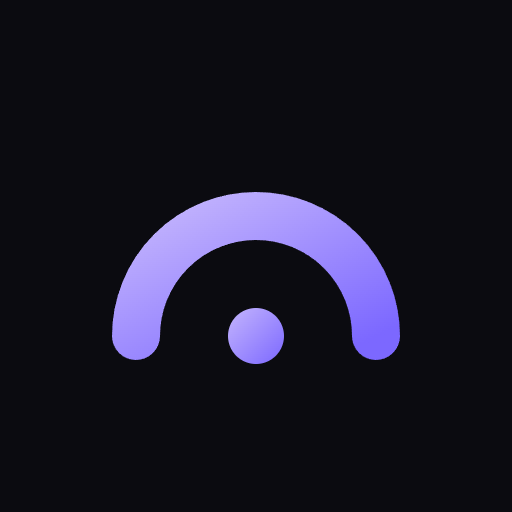
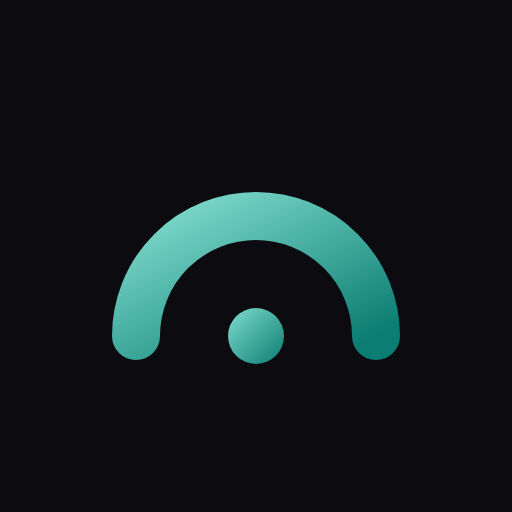
Change Arc's brand colour to deep teal
Dark accent #2bb3a3 / #0b7d72, light #0b7d72 / #086158; the logo arc
gradient #7fdccd -> #0b7d72 in icon.svg, the sidebar and re-rendered
PNG icons; the API docs use Scalar's neutral theme with the teal accent;
README badges and the year-in-review card follow. Count badges and the
accent button hover move to accent-strong so white text keeps contrast.

Changed region(s): [[0.2188, 0.375, 0.7812, 0.7188], [0.4375, 0.5938, 0.5625, 0.7188]]

diff --git a/web/src/index.css b/web/src/index.css
@@ -15,8 +15,8 @@
   --muted: #a1a1ad;
   --subtle: #6b6b78;
   --border: rgb(255 255 255 / 0.08);
-  --accent: #9d8cff;
-  --accent-strong: #7c68ff;
+  --accent: #2bb3a3;
+  --accent-strong: #0b7d72;
   --accent-foreground: #ffffff;
   --warning: #ffb547;
   --glass: rgb(21 21 28 / 0.72);
@@ -33,8 +33,8 @@
     --muted: #5f5f6b;
     --subtle: #8e8e99;
     --border: rgb(0 0 0 / 0.08);
-    --accent: #6d5ce8;
-    --accent-strong: #5a48d9;
+    --accent: #0b7d72;
+    --accent-strong: #086158;
     --accent-foreground: #ffffff;
     --warning: #c77700;
     --glass: rgb(255 255 255 / 0.72);
@@ -52,8 +52,8 @@
   --muted: #5f5f6b;
   --subtle: #8e8e99;
   --border: rgb(0 0 0 / 0.08);
-  --accent: #6d5ce8;
-  --accent-strong: #5a48d9;
+  --accent: #0b7d72;
+  --accent-strong: #086158;
   --accent-foreground: #ffffff;
   --warning: #c77700;
   --glass: rgb(255 255 255 / 0.72);

diff --git a/web/src/docs/main.ts b/web/src/docs/main.ts
@@ -8,7 +8,10 @@ createApiReference('#docs', {
   url: '/api/openapi.json',
   // "Try it" requests go to this server, signed in as the current browser session.
   servers: [{ url: `${location.origin}/api/v1`, description: 'This Arc server' }],
-  theme: 'purple',
+  // Arc's colours: Scalar's neutral theme with Arc's teal accent (web/src/index.css).
+  theme: 'default',
+  customCss: `.light-mode { --scalar-color-accent: #0b7d72; --scalar-background-accent: #0b7d721f; }
+.dark-mode { --scalar-color-accent: #2bb3a3; --scalar-background-accent: #2bb3a31f; }`,
   telemetry: false,
   withDefaultFonts: false,
   agent: { disabled: true },

diff --git a/web/src/pages/Year.tsx b/web/src/pages/Year.tsx
@@ -90,7 +90,7 @@ function Review({ y, faded }: { y: YearReview; faded: boolean }) {
         initial={{ opacity: 0, y: 12 }}
         animate={{ opacity: 1, y: 0 }}
         transition={{ duration: 0.6, ease: [0.22, 1, 0.36, 1] }}
-        className="relative overflow-hidden rounded-3xl bg-gradient-to-br from-accent-strong via-accent-strong/85 to-indigo-950 p-8 text-white ring-1 ring-white/10 md:p-12"
+        className="relative overflow-hidden rounded-3xl bg-gradient-to-br from-accent-strong via-accent-strong/85 to-teal-950 p-8 text-white ring-1 ring-white/10 md:p-12"
       >
         {hours < 1 ? (
           topGenre

diff --git a/web/src/components/ui/button.tsx b/web/src/components/ui/button.tsx
@@ -9,7 +9,7 @@ export const buttonVariants = cva(
       variant: {
         // Bright, high-contrast call to action (Play).
         primary: 'bg-foreground text-background hover:bg-foreground/90 shadow-lg shadow-black/20',
-        accent: 'bg-accent-strong text-accent-foreground hover:bg-accent',
+        accent: 'bg-accent-strong text-accent-foreground hover:bg-accent-strong/85',
         secondary: 'bg-surface-2/80 text-foreground hover:bg-surface-3 backdrop-blur-xl',
         ghost: 'text-muted hover:text-foreground hover:bg-surface-2',
         glass: 'bg-white/12 text-white hover:bg-white/20 backdrop-blur-xl',

diff --git a/web/src/components/Activity.tsx b/web/src/components/Activity.tsx
@@ -69,7 +69,7 @@ export function ActivityButton({ className }: { className?: string }) {
       >
         {busy ? <Loader2 className="size-[18px] animate-spin" /> : <Zap className="size-[18px]" />}
         {active.length > 1 && (
-          <span className="absolute -right-0.5 -top-0.5 flex size-4 items-center justify-center rounded-full bg-accent text-[10px] font-semibold text-white">
+          <span className="absolute -right-0.5 -top-0.5 flex size-4 items-center justify-center rounded-full bg-accent-strong text-[10px] font-semibold text-white">
             {active.length}
           </span>
         )}

diff --git a/web/src/components/Sidebar.tsx b/web/src/components/Sidebar.tsx
@@ -39,8 +39,8 @@ export function ArcLogo({ className }: { className?: string }) {
     <svg viewBox="0 0 32 32" className={className} aria-hidden>
       <defs>
         <linearGradient id={id} x1="0" y1="0" x2="1" y2="1">
-          <stop offset="0" stopColor="#c4b5fd" />
-          <stop offset="1" stopColor="#7c68ff" />
+          <stop offset="0" stopColor="#7fdccd" />
+          <stop offset="1" stopColor="#0b7d72" />
         </linearGradient>
       </defs>
       <path d="M5 24a11 11 0 0 1 22 0" fill="none" stroke={`url(#${id})`} strokeWidth="4.5" strokeLinecap="round" />

diff --git a/web/src/components/News.tsx b/web/src/components/News.tsx
@@ -37,7 +37,7 @@ export function NewsButton({ className }: { className?: string }) {
       >
         <Bell className="size-[18px]" />
         {unread > 0 && (
-          <span className="absolute -right-0.5 -top-0.5 flex h-4 min-w-4 items-center justify-center rounded-full bg-accent px-1 text-[10px] font-semibold text-white">
+          <span className="absolute -right-0.5 -top-0.5 flex h-4 min-w-4 items-center justify-center rounded-full bg-accent-strong px-1 text-[10px] font-semibold text-white">
             {unread > 9 ? '9+' : unread}
           </span>
         )}

diff --git a/docs/changes/2026-10-29-brand-teal.md b/docs/changes/2026-10-29-brand-teal.md
@@ -1,0 +1,27 @@
+# Arc's colour is now deep teal
+
+The owner compared Arc's violet with indigo, blue, teal and magenta (mockups of Home, Settings and
+the logo), then three deeper teals, and chose the deepest. Violet felt close to Jellyfin; blue would
+move closer still (Jellyfin's highlight is cyan-blue). No media server owns a deep teal, and a cool
+colour frames warm poster art rather than competing with it.
+
+- **Colours** (`web/src/index.css`):
+  - dark theme: accent `#2bb3a3`, accent-strong `#0b7d72`;
+  - light theme: accent `#0b7d72`, accent-strong `#086158`, so text and focus on light backgrounds
+    keep their contrast.
+- **Logo:** the arc's gradient is `#7fdccd` → `#0b7d72`, in `web/public/icon.svg` and the sidebar
+  logo. The PNG icons (180/192/512) are re-rendered from the SVG.
+- **Other places:**
+  - the API docs page uses Scalar's neutral theme with Arc's teal accent, instead of its purple theme;
+  - the README badges;
+  - the year-in-review card's gradient ends in teal.
+- **Contrast fixes found on the way:**
+  - The Activity and News count badges put white text on the light accent. They now use
+    accent-strong.
+  - Accent buttons hovered to the light accent. They now stay on accent-strong, slightly lighter.
+- **Not changed:** profile avatar colours (violet, blue, teal and so on) are each profile's own
+  choice, not the brand.
+
+The Android TV app uses the same colours (`clients/android-tv`, Theme.kt). Teal sits near "success
+green"; Arc has no green success styling today, so nothing clashes, but new success states should
+use a tick and neutral text or a clearly yellower green.

diff --git a/README.md b/README.md
@@ -9,8 +9,8 @@
 </p>
 
 <p align="center">
-  <img alt="Status: alpha" src="https://img.shields.io/badge/status-alpha-7c68ff">
-  <img alt="Licence: AGPL-3.0" src="https://img.shields.io/badge/licence-AGPL--3.0-c4b5fd">
+  <img alt="Status: alpha" src="https://img.shields.io/badge/status-alpha-0b7d72">
+  <img alt="Licence: AGPL-3.0" src="https://img.shields.io/badge/licence-AGPL--3.0-7fdccd">
   <img alt="Built with Go" src="https://img.shields.io/badge/server-Go-00ADD8?logo=go&logoColor=white">
   <img alt="Web app in React" src="https://img.shields.io/badge/web%20app-React-61DAFB?logo=react&logoColor=black">
   <img alt="Docker for amd64 and arm64" src="https://img.shields.io/badge/docker-amd64%20%7C%20arm64-2496ED?logo=docker&logoColor=white">
